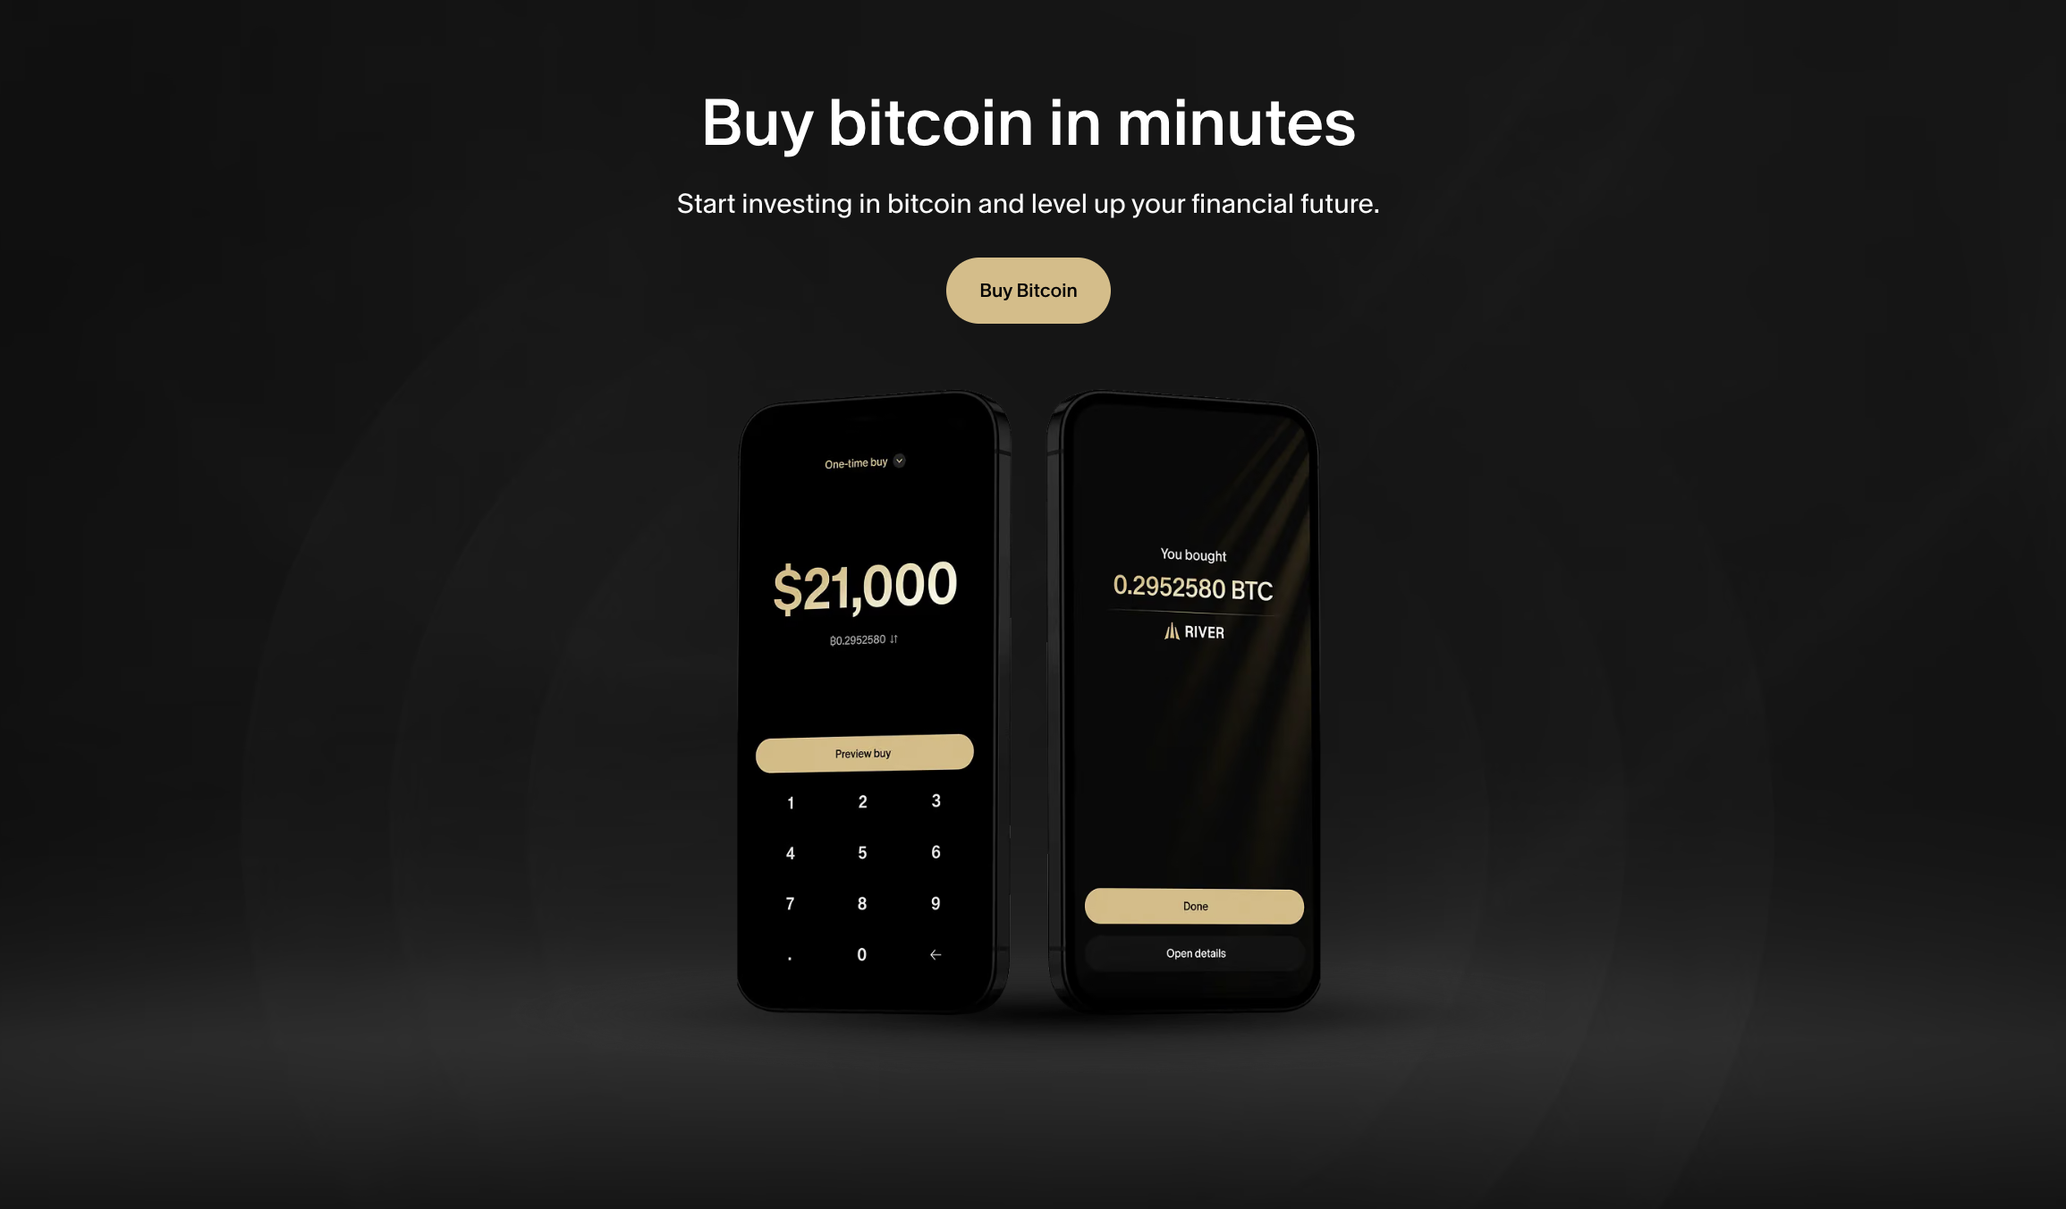
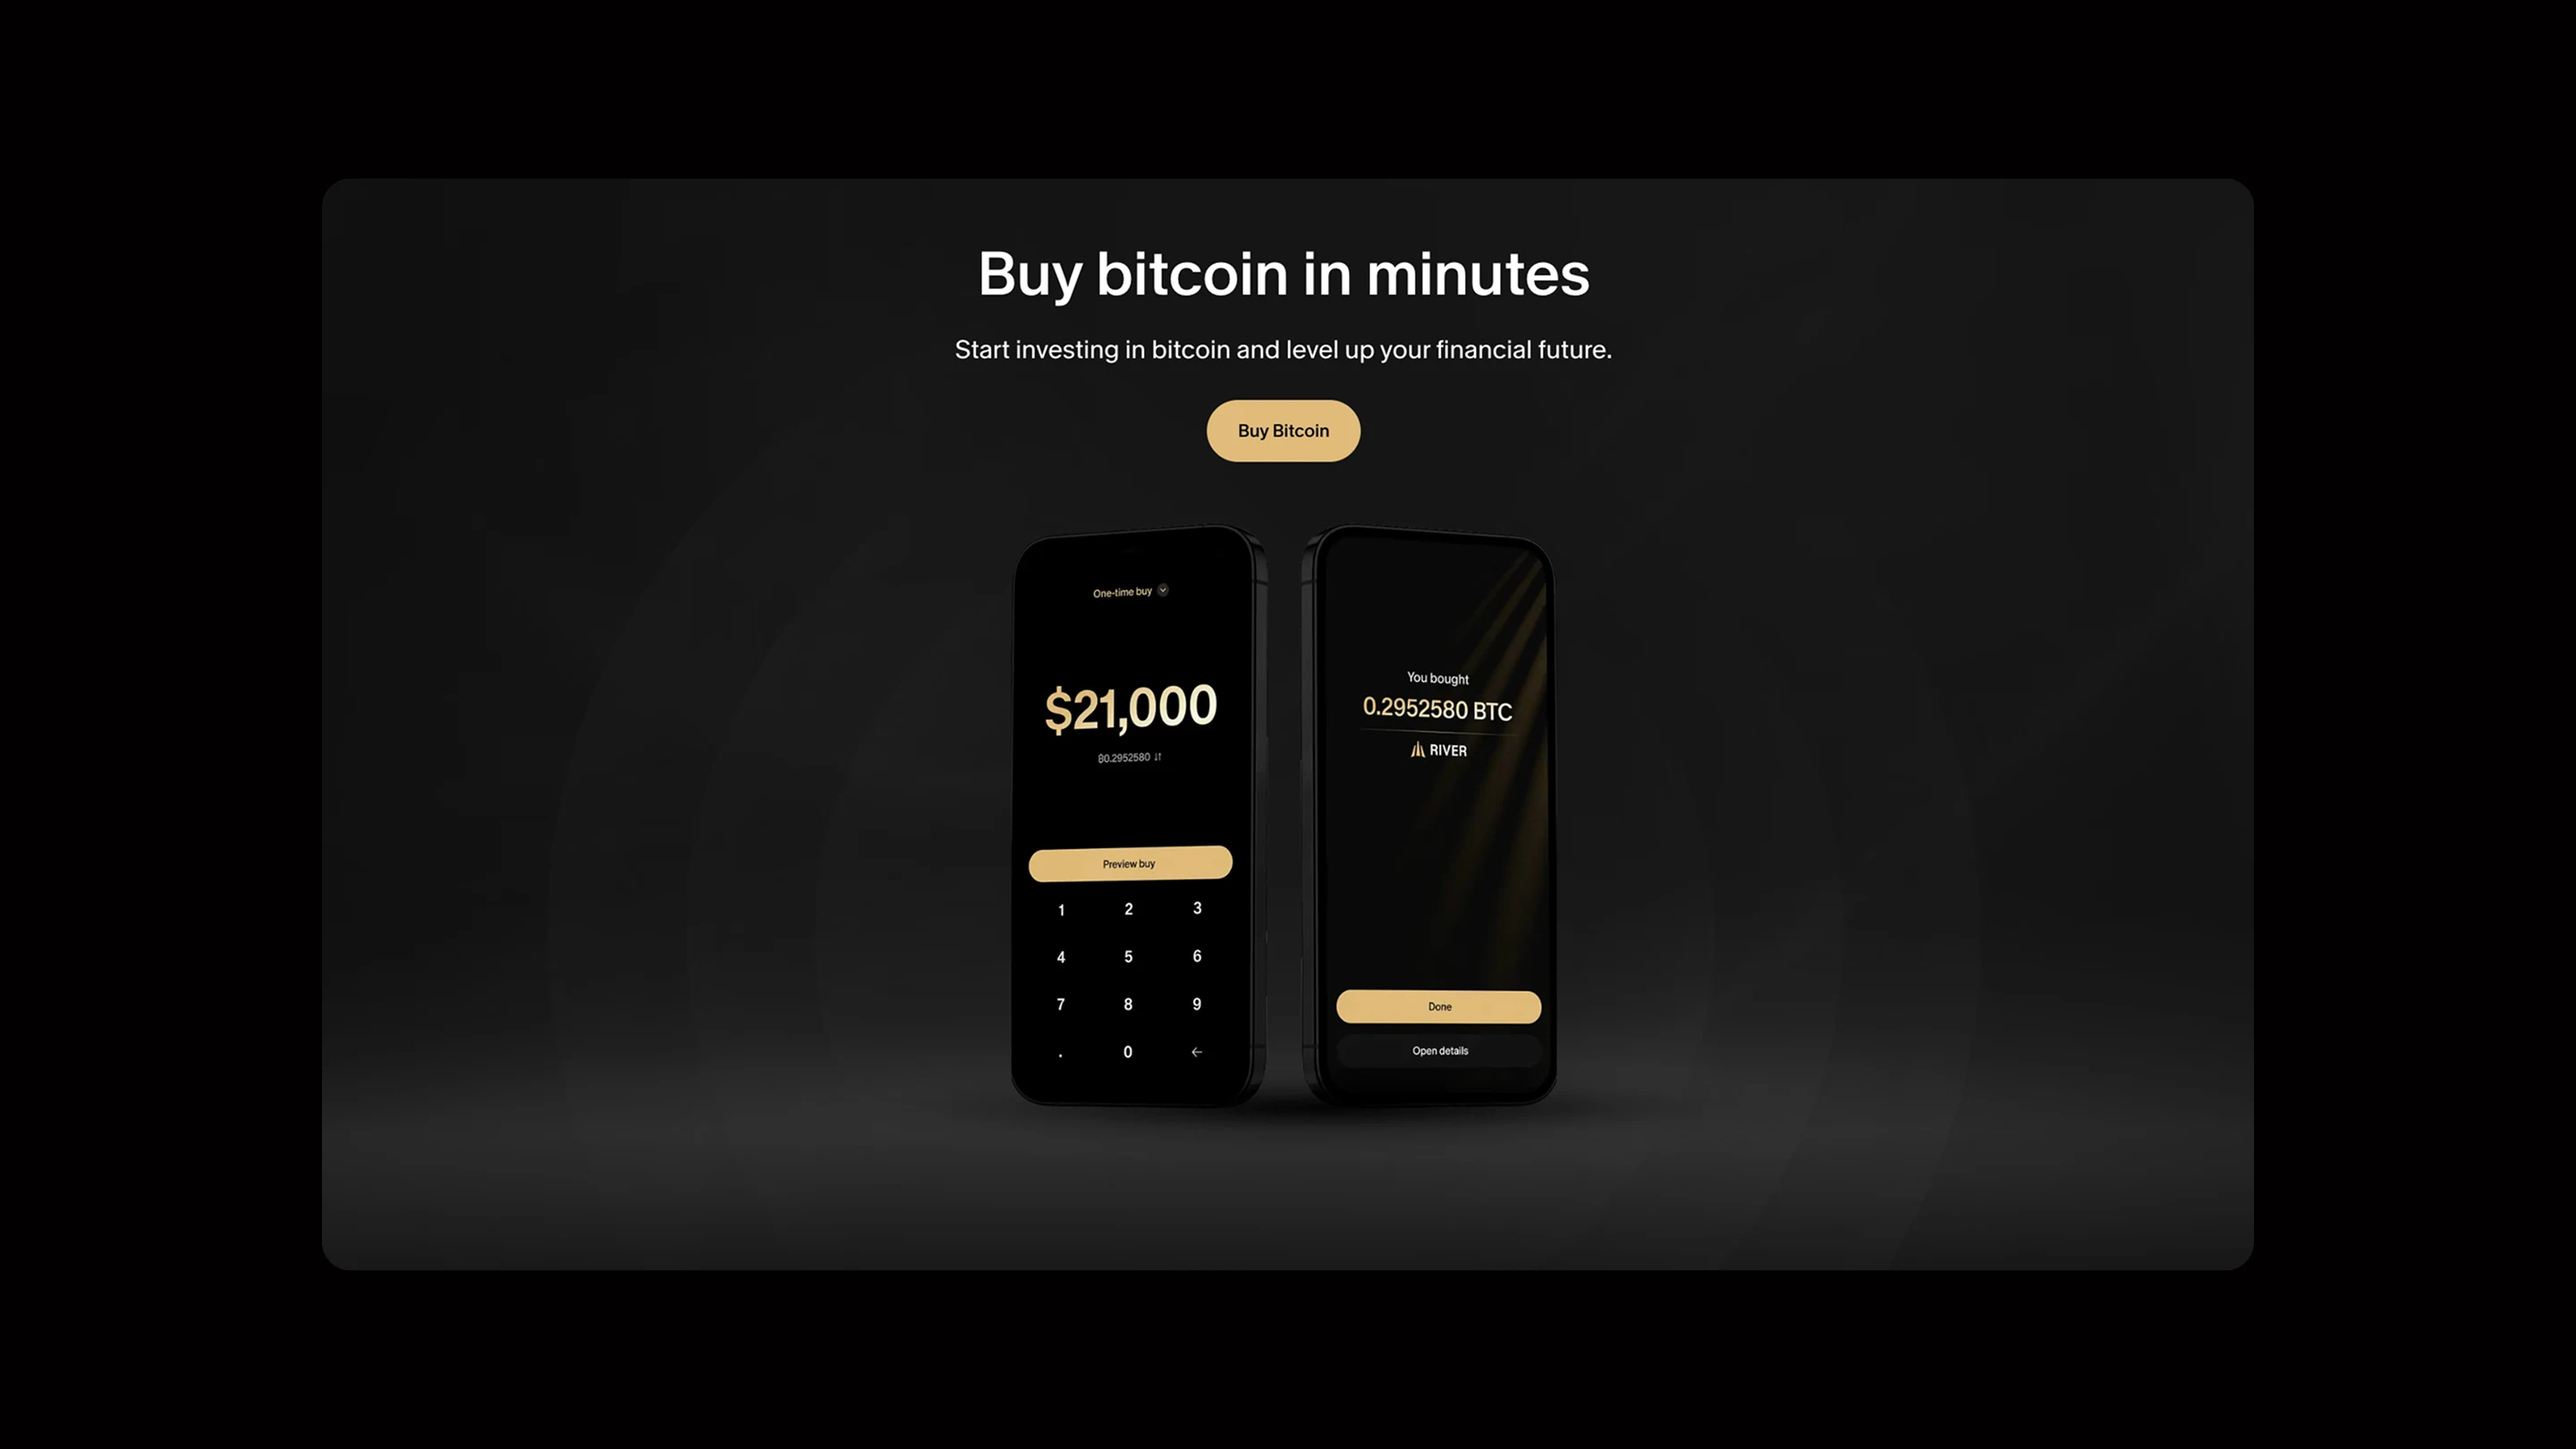
River onboarding: new framed hero and combined Problem image

diff --git a/index.html b/index.html
@@ -741,10 +741,7 @@
             <h2 class="cs-heading">Less steps that felt heavier than they looked</h2>
             <div class="cs-body"><p>The old sign up squeezed every question into three steps. It looked short on paper, but each step asked for four or five inputs at once. That overload landed right when clients were deciding whether to trust us, and many dropped off before creating an account.</p><p>The copy didn&rsquo;t help. It read robotic and transactional, which put distance between River and the client. For a product that has to feel trustworthy, onboarding felt cold.</p></div>
           </div>
-          <div class="cs-phones">
-            <div class="cs-phone"><img loading="lazy" decoding="async" src="assets/signup-problem-left.webp" alt="Old sign up — create account" /></div>
-            <div class="cs-phone"><img loading="lazy" decoding="async" src="assets/signup-problem-right.webp" alt="Old sign up — more about you" /></div>
-          </div>
+          <div class="project-figure"><img loading="lazy" decoding="async" src="assets/signup-problem.webp" alt="Old sign up: create account and more about you" /></div>
         </section>
         <section class="cs-section">
           <div class="cs-label mono">Design</div>
